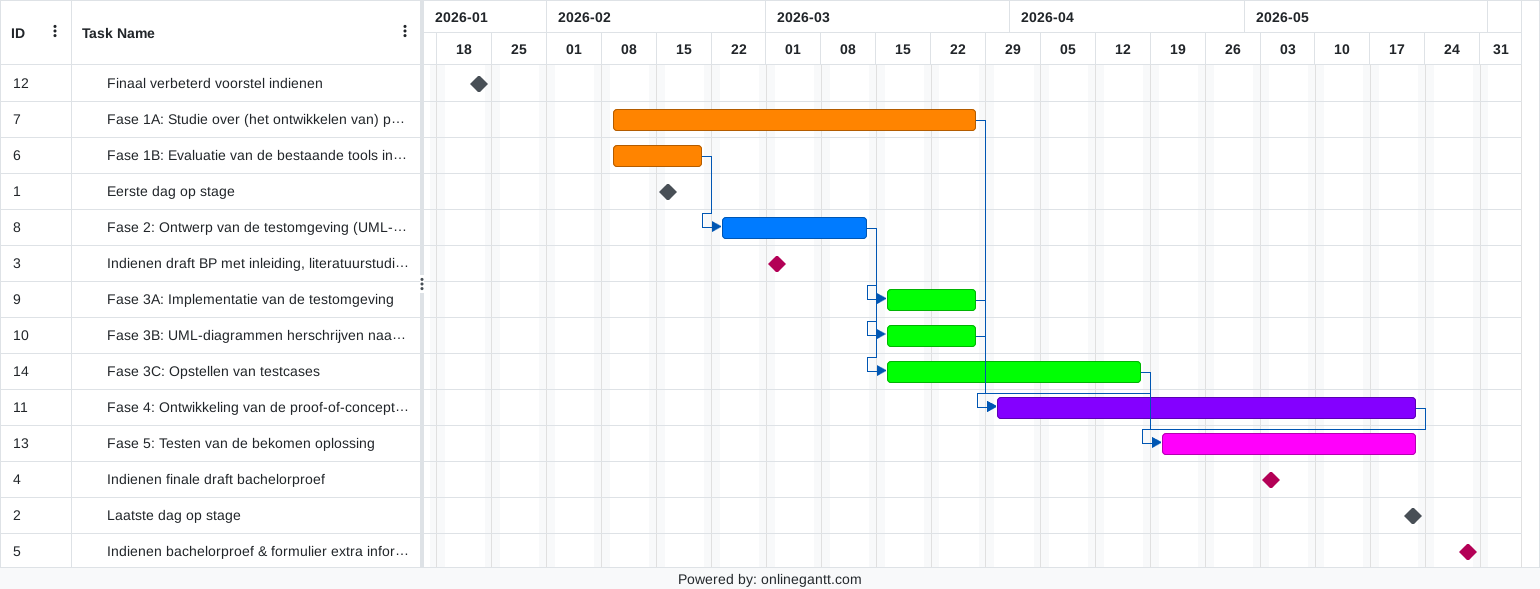
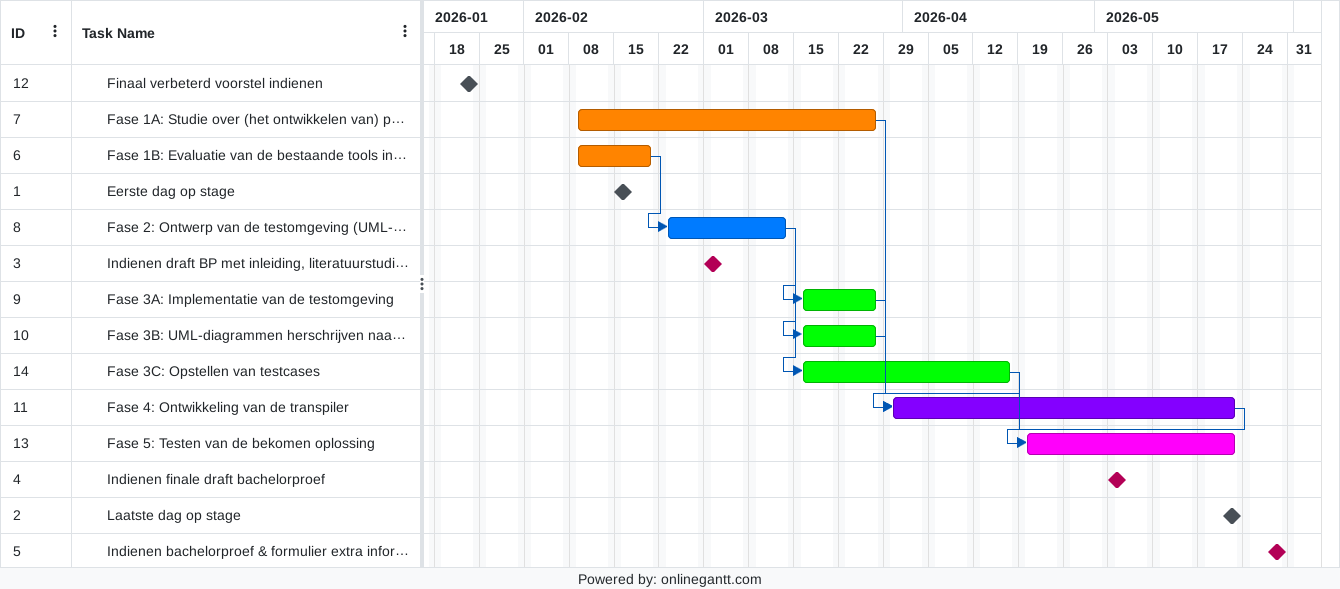
2026-01-22 - Finaal voorstel (eerste nalezing)

diff --git a/voorstel/voorstel-inhoud.tex b/voorstel/voorstel-inhoud.tex
@@ -53,9 +53,9 @@ Bij implementatiediagrammen kan er onder meer onduidelijkheid onstaan bij (de ve
 Voor netwerkdiagrammen kan dit bijvoorbeeld gaan over hardwarespecificaties van de servers, (de versies van) hun besturingssystemen en de declaratie van de DNS server(s).
 
 De \emph{hoofdonderzoeksvraag} voor deze bachelorproef:
-Hoe kan men een gegeven netwerk- en implementatiediagram (ontworpen met bv. PlantUML\footnote{\url{https://plantuml.com/}}) van een (virtuele) serveromgeving rechtstreeks omzetten (met minimale menselijke interventie) tot een overeenkomende, gebruiksklare ``configuration management''-ondersteunde (bv. met Ansible) serveromgeving?
+Hoe kan men een gegeven netwerk- en implementatiediagram (in tekstuele vorm via bv. PlantUML\footnote{\url{https://plantuml.com/}}) van een (virtuele) serveromgeving met minimale menselijke interventie omzetten tot een overeenkomende, gebruiksklare ``configuration management''-ondersteunde (bv. met Ansible) serveromgeving?
 
-Voor deze serveromgeving wordt ervan uit gegaan dat de eenheden (bare-metal servers, virtuele machines, containers, \ldots) alvorens uitgerold zijn via een ``Infrastructure-as-Code''-tool (zoals Terraform, OpenTofu, Vagrant, \ldots), en dat ze enkel nog achteraf geconfigureerd moeten worden via een ``configuration management''-tool.
+Voor deze serveromgeving wordt ervan uit gegaan dat de eenheden (bare-metal servers, virtuele machines, containers, \ldots) alvorens uitgerold zijn via een ``Infrastructure-as-Code''-tool en dat ze enkel nog achteraf geconfigureerd moeten worden via een ``configuration management''-tool.
 
 Enkele deelvragen met betrekking tot het \emph{probleemdomein}:
 
@@ -74,14 +74,13 @@ Verdere deelvragen met betrekking tot het \emph{oplossingsdomein}
   \item Is het mogelijk om deze oplossing te ontwikkelen aan de hand van ``reverse engineering'' van de bovenstaande tools?
 \end{itemize}
 
-De \emph{doelstelling} van deze bachelorproef is om een proof-of-concept te ontwikkelen voor een transpiler (of omzetter) van PlantUML-diagrammen naar Ansible-code. Dit zijn de twee tools die op dit moment voor ogen staan, maar er zullen alvorens of tijdens het onderzoek ook alternatieven gezocht en geëvalueerd worden. 
+De \emph{doelstelling} van deze bachelorproef is om een proof-of-concept te ontwikkelen voor een transpiler (of omzetter) van PlantUML-diagrammen naar Ansible-code. PlantUML en Ansible zijn de twee tools die op dit moment voor ogen staan, maar er zullen tijdens het onderzoek ook alternatieven gezocht en geëvalueerd worden. 
 
 De hoop voor deze oplossing is dat deze een meerwaarde kan bieden voor educatieve doeleinden. Neem als voorbeeld een OLOD zoals ``Cybersecurity Advanced'' binnen de opleiding Toegepaste Informatica. De tech-industrie evolueert snel en de labo's die voor dit OLOD ontworpen zijn, zullen daardoor ook snel verouderen.
 
-Aangezien met deze oplossing de drempel tussen de ontwerp- en de implementatiefase verkleint, zouden docenten sneller nieuwe (virtuele) labo-omgevingen kunnen ontwerpen, met (in theorie) kant-en-klare ``configuration management''-code om deze meteen te configureren. Voor studenten kan dit ook een kans bieden om potentiële experimenten tijdens hun studies sneller effectief vorm te geven.
+Aangezien met deze oplossing de drempel tussen de ontwerp- en implementatiefase verkleint, zouden docenten sneller nieuwe (virtuele) labo-omgevingen kunnen ontwerpen, met (in theorie) kant-en-klare ``configuration management''-code om deze meteen te configureren. Voor studenten kan dit ook een kans bieden om potentiële experimenten tijdens hun studies sneller effectief vorm te geven.
 
-
-%---------- Stand van zaken ---------------------------------------------------
+%---------- Literatuurstudie | Stand van zaken ---------------------------------------------------
 
 \section{Literatuurstudie}%
 \label{sec:literatuurstudie}
@@ -109,9 +108,9 @@ Aangezien met deze oplossing de drempel tussen de ontwerp- en de implementatiefa
 \subsection{Het belang van Unified Modeling Language (UML)}%
 \label{subsec:belang_uml}%
 
-``Unified Modeling Language'', of afgekort UML, is een taal die binnen de softwareontwikkeling-discipline geaccepteerd is als de standaard voor het weergeven van object-georiënteerde modellen. UML wordt hoofdzakelijk gebruikt in de industrie-, business- en IT-sector, met als doel om de ontwerp- en implementatiefase te ondersteunen met diagrammen die door zowel business als technische stakeholders kunnen geïnterpreteerd worden. \autocite{Koc2021}
+``Unified Modeling Language'', of afgekort UML, is een taal die binnen de softwareontwikkeling-discipline geaccepteerd is als de standaard voor het weergeven van object-georiënteerde modellen. UML wordt hoofdzakelijk gebruikt in de industrie-, business- en IT-sector, met als doel om de ontwerp- en implementatiefase te ondersteunen met diagrammen (zoals onder andere netwerk- en implementatiediagrammen) die door zowel business als technische stakeholders kunnen geïnterpreteerd worden. \autocite{Koc2021}
 
-Binnen de opleiding Toegepaste Informatica worden er twee UML-modeling programma's gebruikt; UML Visual Paradigm en draw.io gebruikt. Dit zijn twee tools die werden geëvalueerd tijdens een vergelijkende studie van \autocite{Lu2023}, waarin deze respectievelijk 122 en 114 scoorden op een maximum van 165 op basis van hun eigenschappen en functies.
+Binnen de opleiding Toegepaste Informatica worden er twee UML-modeling programma's gebruikt; UML Visual Paradigm en draw.io. Dit zijn twee tools die werden geëvalueerd tijdens een vergelijkende studie van \textcite{Lu2023}, waarin deze respectievelijk 122 en 114 scoorden op een maximum van 165 op basis van hun eigenschappen en functies.
 
 PlantUML en MermaidJS\footnote{\url{https://mermaid.js.org}} zijn tools waarmee men UML-diagrammen kan ontwerpen via menselijk leesbare en gemakkelijk onderhoudbare (door middel van versiebeheertools zoals Git\footnote{\url{https://git-scm.com/}}) tekstbestanden \autocite{Romeo2025}. Deze tools zijn ook open source, ergo de broncode van deze software is voor iedereen beschikbaar.
 
@@ -137,17 +136,17 @@ Er zijn drie noemenswaardige OLODs, binnen het keuzetraject ``System \& Network 
 
 Het OLOD ``Cybersecurity Advanced'' introduceert het concept van ``blue-teaming'' binnen het gebied van cybersecurity aan de hand van een reeks virtuele labo's die individueel worden uitgevoerd. Het gebruik van ``configuration management'' of UML-diagrammen is hierbij niet strikt noodzakelijk, maar het geeft de student wel een voordeel aangezien deze zo de labo-omgeving reproduceerbaar en visueel overzichtelijk kan maken. Bovendien wordt de (basis-)opstelling alvast voorgesteld met een netwerkdiagram, ontworpen met PlantUML.
 
-``DevOps Project: Operations'' is een OLOD voor studenten dat het tweede luik vormt van een tweeledig groepsproject, het eerste luik zijnde ``Real-life Integrated Software Engineering'' voor de studenten binnen ``Mobile \& enterprise developer''. Het doel van het ``operations-team'' in dit project, is om een de backend van een webapplicatie (ontwikkeld door het ``development-team'') te ondersteunen met een productie-waardige serverinfrastructuur. Deze omgeving moet volledig automatisch kunnen opgezet worden via zowel ``Infrastructure-as-Code''- als ``configuration management''-tools (met in het bijzonder Ansible).
+``DevOps Project: Operations'' is een OLOD voor studenten dat het tweede luik vormt van een tweeledig groepsproject, het eerste luik zijnde ``Real-life Integrated Software Engineering'' voor de studenten binnen ``Mobile \& enterprise developer''. Het doel van het ``operations-team'' in dit project, is om de backend van een webapplicatie (ontwikkeld door het ``development-team'') te ondersteunen met een productie-waardige serverinfrastructuur. Deze omgeving moet volledig automatisch kunnen opgezet worden via zowel ``Infrastructure-as-Code''- als ``configuration management''-tools (met in het bijzonder Ansible).
 Om de onderliggende werking van deze omgeving te visualiseren voor al dan niet technische stakeholders, moet er ook een netwerk- en implementatiediagram (of een combinatie ervan) ontworpen worden met UML-modeling software.
 
-Tenslotte biedt het OLOD ``Infrastructure Automation'' een reeks virtuele labo's die verschillende tools (Jenkins\footnote{\url{https://www.jenkins.io/}}, Ansible, Prometheus\footnote{\url{https://prometheus.io/}} en Kubernetes\footnote{\url{https://kubernetes.io/}}) introduceren voor het automatisch opzetten, configureren en monitoren van serveromgevingen. Nogmaals, hierbij is het gebruik van UML-diagrammen niet verplicht, maar aan te raden.
+Tenslotte biedt het OLOD ``Infrastructure Automation'' een reeks virtuele labo's die verschillende tools (Jenkins\footnote{\url{https://www.jenkins.io/}}, Ansible, Prometheus\footnote{\url{https://prometheus.io/}} en Kubernetes\footnote{\url{https://kubernetes.io/}}) introduceren voor het automatisch opzetten, configureren en monitoren van serveromgevingen. Nogmaals, hierbij is het gebruik van UML-diagrammen niet verplicht, maar aangeraden.
 
 \subsection{Compilers, transpilers en hun doel}%
 \label{subsec:overzicht_transpilers}
 
 Compilers vertalen de broncode van een high-level, menselijk leesbare taal (zoals Java\footnote{\url{https://www.java.com/}} of C\#\footnote{\url{https://dotnet.microsoft.com/en-us/languages/csharp}}) tot equivalente instructies in een andere, vaak low-level taal of machinecode \autocite{Seidl2012}.
 
-``Source-to-source compilers'', algemeen gekend als ``transpilers'', zijn compilers die code geschreven in één high-level (programmeer-)taal als invoer aannemen en deze als uitvoer omzetten naar code in een andere high-level taal. De use cases voor deze software kunnen zich ook uitbreiden tot het omzetten van code van naar een andere/nieuwere versie van eenzelfde taal of het optimaliseren van code. \autocite{Ilyushin2016}
+``Source-to-source compilers'', algemeen gekend als ``transpilers'', zijn compilers die code geschreven in één high-level (programmeer-)taal als invoer aannemen en deze als uitvoer omzetten naar code in een andere high-level taal. De use cases voor deze software kunnen zich ook uitbreiden tot het optimaliseren of omzetten van code naar een andere/nieuwere versie van eenzelfde taal. \autocite{Ilyushin2016}
 
 %---------- Methodologie ------------------------------------------------------
 
@@ -169,7 +168,7 @@ Compilers vertalen de broncode van een high-level, menselijk leesbare taal (zoal
 \subsection{Fasering van de bachelorproef}%
 \label{subsec:fasering_bap}
 
-Deze bachelorproef zal uitgevoerd worden in de volgende fases, van 9 februari t.e.m. 22 mei, 2026:
+Deze bachelorproef zal uitgevoerd worden in de volgende fases, van 9 februari (week 1) t.e.m. 22 mei (week 15), 2026:
 
 \begin{itemize}
   \item{Fase 1A (week 1-7): Studie over (het ontwikkelen van) transpilers}
@@ -178,59 +177,63 @@ Deze bachelorproef zal uitgevoerd worden in de volgende fases, van 9 februari t.
   \item{Fase 3A (week 6-7): Implementatie van de testomgeving}
   \item{Fase 3B (week 6-7): UML-diagrammen herschrijven naar PlantUML/MermaidJS}
   \item{Fase 3C (week 6-10): Opstellen van testcases}
-  \item{Fase 4 (week 8-15): Ontwikkeling van de proof-of-concept transpiler}
+  \item{Fase 4 (week 8-15): Ontwikkeling van de transpiler}
   \item{Fase 5 (week 11-15): Testen van de bekomen oplossing}
 \end{itemize}
 
-% \begin{figure}
-%   \centering
-%   \includegraphics[width=.8\textwidth]{images/voorstel-gantt.png}
-%   \caption{\label{fig:voorstel-gantt.png}GANTT-schema voor de opgelijste fases.}
-% \end{figure}
+Indien een fase begint met hetzelfde nummer maar eindigt met een andere letter, indiceert dit dat ze op hetzelfde moment (kunnen) beginnen, eindigen (met fases 1A, 3C en 5 als uitzondering) en parallel worden uitgevoerd.
 
-Indien een fase begint met hetzelfde nummer maar eindigt met een ander letter, indiceert dit dat ze op hetzelfde moment (kunnen) beginnen, eindigen (met fases 1A, 3C en 5 als uitzondering) en parallel worden uitgevoerd. Week 1 begint op maandag 9 februari, 2026.
+% \subsection{GANTT-schema}%
+% \label{subsec:gantt_schema}
+% 
+% \begin{center}
+  % \begin{figure}
+    % \includegraphics[width=.8\textwidth]{images/voorstel-gantt.png}
+    % \caption{\label{fig:voorstel-gantt.png}GANTT-schema voor de opgelijste fases.}
+  % \end{figure}
+% \end{center}
 
 \subsection{Fase 1A (week 1-7): Studie over (het ontwikkelen van) transpilers}%
 \label{subsec:studie_ontwikkelen_transpilers}
 
-Bij het begin van het onderzoek zal er parallel met de andere voorbereidende fases (1-3) een studie uitgevoerd worden over hoe deze werken en hoe deze ontwikkeld kunnen worden.
-De deliverable voor deze fase is een simpele, maar functionele transpiler die de basis zal vormen voor de proof-of-concept.
+Bij het begin van het onderzoek zal er parallel met de andere voorbereidende fases (1-3) een studie uitgevoerd worden over hoe transpilers werken en hoe deze ontwikkeld kunnen worden.
+De deliverable voor deze fase is een simpele, maar functionele transpiler (zonder UML-diagrammen en ``configuration management''-code) die de basis zal vormen voor de toekomstige, finale versie.
 
 \subsection{Fase 1B (week 1-2): Evaluatie van de bestaande tools in de betrokken vakgebieden}%
 \label{subsec:evaluatie_bestaande_tools_betrokken_vakgebieden}
 
-Hier zal er een afweging gemaakt worden (samen met de co-promotor) voor de verschillende tools binnen UML-modeling en ``configuration management'' die gebruikt zullen worden tijdens de ontwikkeling van de proof-of-concept transpiler.
-De te evalueren tools voor UML-modeling zijn onder andere PlantUML, MermaidJS. Voor het ``configuration management''-gedeelte zal er onder andere gekeken worden naar Ansible, Puppet en Chef. Deze opsomming van tools is echter niet-uitputtend, en andere tools kunnen nog in het vizier komen.
+Hier zal er een afweging gemaakt worden voor de verschillende tools binnen UML-modeling en ``configuration management'' die gebruikt zullen worden tijdens de ontwikkeling van de transpiler.
+De te evalueren tools voor UML-modeling zijn PlantUML en MermaidJS. Voor het ``configuration management''-gedeelte zal er gekeken worden naar Ansible, Puppet en Chef. Deze opsomming van tools is echter niet-uitputtend, en andere tools kunnen nog in het vizier komen.
 
 \subsection{Fase 2 (week 3-5): Ontwerp van de testomgeving (UML-diagrammen)}%
 \label{subsec:hardware_softwarespecs_testomgeving}
 
-In deze fase worden de infrastructuur van (virtuele) servers ontworpen voor de test-omgeving van de proof-of-concept transpiler aan de hand van netwerk- en implementatiediagrammen. In deze diagrammen zullen de hardware- (Opslag, RAM, CPU cores, \ldots) en softwarespecificaties (distributie, packages, \ldots) van elke server beschreven worden, alsook hoe deze met elkaar interageren (firewalls, \ldots). Het initiële ontwerp zal nog niet met PlantUML/MermaidJS verlopen maar eerder met GUI-ondersteunde tools zoals Visual Paradigm en draw.io.
+In deze fase wordt de (virtuele) testomgeving voor de transpiler ontworpen aan de hand van netwerk- en implementatiediagrammen. In deze diagrammen zullen de hardware- (Opslag, RAM, CPU cores, \ldots) en softwarespecificaties (distributie, packages, \ldots) van elke server beschreven worden, alsook hoe deze met elkaar interageren (firewalls, \ldots). Het initiële ontwerp zal nog niet met PlantUML/MermaidJS verlopen maar eerder met GUI-ondersteunde tools zoals Visual Paradigm en draw.io.
 
 \subsection{Fase 3A (week 6-7): Implementatie van de testomgeving}%
 \label{subsec:implementatie_testomgeving}
 
-Tijdens deze fase wordt de infrastructuur (ontworpen in fase 2) opgezet en geconfigureerd met zowel ``Infrastructure-as-Code''-tool(s) als ``configuration management''. Er wordt intussen ook gedocumenteerd hoe het ``configuration management''-gedeelte wordt opgezet, want dit vormt de target output voor de proof-of-concept transpiler. De uitvoer van de transpiler zal dan (uiteraard) worden toegepast op de omgeving minus het ``configuration management''-gedeelte.
+Tijdens deze fase wordt de infrastructuur (ontworpen in fase 2) opgezet met ``Infrastructure-as-Code''-tool(s) en geconfigureerd met een ``configuration management''-tool (Ansible/Puppet/Chef). Er wordt intussen ook gedocumenteerd hoe het ``configuration management''-gedeelte wordt opgezet, want dit vormt de target output voor de transpiler. De aanpassingen in verband met ``configuration management'' worden vervolgens ongedaan gemaakt alvorens de resulterende ``configuration management''-code van de transpiler wordt uitgevoerd op de testomgeving.
 
 \subsection{Fase 3B (week 6-7): UML-diagrammen herschrijven naar PlantUML/MermaidJS}%
 \label{subsec:uml_diagrammen_herscrijven}
 
-Nadat de netwerk- en implementatiediagrammen zijn ontworpen, zullen deze herschreven worden in PlantUML/MermaidJS. Deze diagrammen dienen een tweevoudig doel; ze kunnen binnen de originele context van hun taal als visuele UML-diagrammen worden gegenereerd, en ze vormen de bron-bestanden voor de proof-of-concept transpiler, die deze zal omzetten tot ``configuration management''-code (in Ansible/Puppet/Chef).
+Nadat de netwerk- en implementatiediagrammen zijn ontworpen, zullen deze herschreven worden in PlantUML/MermaidJS. Deze diagrammen dienen een tweevoudig doel; ze kunnen binnen de originele context van hun taal als visuele UML-diagrammen worden gegenereerd, en ze vormen de bron-bestanden voor de transpiler, die deze zal omzetten tot ``configuration management''-code.
 
 \subsection{Fase 3C (week 6-10): Opstellen van testcases}%
 \label{subsec:opstellen_testcases}
 
-Hier worden de testcases opgesteld waaraan de proof-of-concept transpiler aan moet voldoen. De testen zullen hoofdzakelijk buigen over de kwaliteit van de uitvoer (aantal playbooks, idempotentie, grootte van codebase, \ldots) en de werking van de finale infrastructuur. Deze fase zal in de praktijk waarschijnlijk gedeeltelijk parallel verlopen met fase 4, aangezien er tijdens het ontwikkelen van de oplossing mogelijk nieuwe testcases kunnen ontstaan.
+Hier worden de testcases opgesteld waaraan de transpiler aan moet voldoen. De testen zich zullen hoofdzakelijk buigen over de kwaliteit van de uitvoer (aantal playbooks, idempotentie, grootte van codebase, \ldots) en de werking van de finale infrastructuur. Deze fase zal in de praktijk waarschijnlijk gedeeltelijk parallel verlopen met fase 4, aangezien er tijdens het ontwikkelen van de oplossing mogelijk nieuwe testcases kunnen ontstaan.
 
-\subsection{Fase 4 (week 8-15): Ontwikkeling van de proof-of-concept transpiler}%
+\subsection{Fase 4 (week 8-15): Ontwikkeling van de transpiler}%
 \label{subsec:ontwikkeling_poc_transpiler}
 
-Tijdens deze fase wordt de proof-of-concept transpiler ontwikkeld. Deze zal als invoer de netwerk- en implementatiediagrammen (ontworpen met PlantUML/MermaidJS) aannemen en deze omzetten tot ``configuration management''-code (in Ansible/Puppet/Chef). Deze fase loopt tot 22 mei, 2026, aangezien dit ook de laatste dag van de stage voor de auteur is.
+Tijdens deze fase wordt de transpiler ontwikkeld. Deze zal als invoer de netwerk- en implementatiediagrammen (ontworpen met PlantUML/MermaidJS) aannemen en omzetten tot ``configuration management''-code (in Ansible/Puppet/Chef). Deze fase loopt tot 22 mei, 2026, aangezien dit voor de auteur de laatste dag van de stage is.
 
 \subsection{Fase 5 (week 11-15): Testen van de bekomen oplossing}%
 \label{subsec:evaluatie_bekomen_oplossing}
 
-Tenslotte worden de opgestelde testen uit fase 3C uitgevoerd op de (gedeeltelijk) uitgewerkte proof-of-concept transpiler. Op basis van de resultaten deze testen zal er een rapport opgesteld worden die aangeeft in welke mate deze oplossing een antwoord biedt op de hoofdonderzoeksvraag. Nogmaals, dit zal allicht parallel verlopen met fase 4.
+Tenslotte worden de opgestelde testen uit fase 3C uitgevoerd op de (gedeeltelijk) uitgewerkte transpiler. Op basis van de resultaten deze testen zal er een rapport worden opgesteld die aangeeft in welke mate deze oplossing een antwoord biedt op de hoofdonderzoeksvraag. Nogmaals, dit zal allicht parallel verlopen met fase 4.
 
 %---------- Verwachte resultaten ----------------------------------------------
 
@@ -246,17 +249,16 @@ Tenslotte worden de opgestelde testen uit fase 3C uitgevoerd op de (gedeeltelijk
 \subsection{Verwachte te gebruiken tools}%
 \label{subsec:verwachte_te_gebruiken_tools}
 
-De meest voor de hand liggende tools die voor deze oplossing geschikt lijken, zijn PlantUML voor UML-modeling en Ansible voor ``configuration management''. Dit heeft hoofdzakelijk te maken met de voorkennis van deze tools, met in het bijzonder Ansible aangezien deze binnen de opleiding Toegepaste Informatica en het vakgebied van de co-promotor de standaard vormt als toepassing voor ``configuration management''.
+De meest voor de hand liggende tools die voor deze oplossing geschikt lijken, zijn PlantUML voor UML-modeling en Ansible voor ``configuration management''. Dit heeft hoofdzakelijk te maken met de voorkennis van de auteur, met in het bijzonder Ansible aangezien deze binnen de opleiding Toegepaste Informatica (en de stageplaats van de auteur) de standaard vormt als toepassing voor ``configuration management''.
 
 \subsection{Verwachte eigenschappen van de testomgeving}
 \label{subsec:verwachte_eigenschappen_testomgeving}
 
 Deze infrastructuur zal allicht redelijk simpel gehouden worden met slechts 2 tot 3 (virtuele) servers, aangezien deze bachelorproef vooral over de ontwikkeling van een proof-of-concept gaat. Dat gezegd zijnde zal er gemikt worden op het implementeren van een web-, DNS- en monitoringserver. Mogelijke uitbreidingen kunnen een databank-, secundaire DNS- en DHCP-server zijn.
 
-\subsection{Verwachte functionaliteit voor de proof-of-concept transpiler}%
+\subsection{Verwachte functionaliteit voor de transpiler}%
 \label{subsec:verwachte_functionaliteit_poc}
 
-% Aangezien de auteur weinig ervaring heeft met het softwareontwikkeling en nog minder met het ontwikkelen van transpilers, is het mogelijk dat er tijdens fase 1A alternatieven gezocht zullen worden voor het ontwikkelen van een oplossing. Dit onderzoek situeert zich nu eenmaal hoofdzakelijk in de specialisatierichting ``System \& Network Administrator'' en niet in ``Mobile \& Enterprise development'', dus de focus zal sowieso eerder liggen bij de kwaliteit van de bekomen infrastructuur dan bij de cohesie van de geprogrammeerde transpiler.
-
-De verwachting van deze oplossing is om met de bekomende ``configuration management''-code een minimaal werkende infrastructuur te verkrijgen die de beschrijving van de gegeven netwerk- en implementatiediagrammen zo nauw mogelijk benadert.
-Aangezien de syntax van zowel PlantUML als Ansible heel uitgebreid is, zal de transpiler zich slechts over een (relevant) deel hiervan buigen. Er zullen enkel netwerk- en implementatiediagrammen als invoer kunnen gebruikt worden, en voor de Ansible playbooks als uitvoer zal er een deelverzameling van ondersteunde ``collections'' en ``roles'' worden gespecifiëerd. Nogmaals, dit wordt een proof-of-concept, dus het onderzoek zal ook aantonen waar het potentiëel tot uitbreidingen ligt, alsook de limitaties van welke informatie uit een UML-diagram rechtstreeks kan omgezet worden naar ``configuration management'' en vice versa.
+De verwachting van deze oplossing is om met de resulterende ``configuration management''-code een minimaal werkende infrastructuur te configureren die de beschrijving van de gegeven netwerk- en implementatiediagrammen zo nauw mogelijk benadert.
+De transpiler zal slechts voor een (relevant) deel van de syntax tussen PlantUML en Ansible een vertaallaag kunnen vormen, aangezien de omvang voor beide tools veel groter is dan die voor dit onderzoek.  
+Als invoer zullen er enkel netwerk- en implementatiediagrammen gebruikt kunnen worden en als uitvoer zal er een deelverzameling van ondersteunde ``collections'' en ``roles'' voor de Ansible playbooks gespecifiëerd worden. Nogmaals, dit wordt een proof-of-concept, dus het onderzoek moet ook aantonen waar het potentiëel tot uitbreidingen ligt, alsook wat de limitaties zijn qua informatie uit een UML-diagram omzetten naar ``configuration management''-code en vice versa.

diff --git a/voorstel/LuduenaSegreLucas-BPvoorstel.tex b/voorstel/LuduenaSegreLucas-BPvoorstel.tex
@@ -65,8 +65,8 @@
 \begin{abstract}
   % Hier schrijf je de samenvatting van je voorstel, als een doorlopende tekst van één paragraaf. Let op: dit is geen inleiding, maar een samenvattende tekst van heel je voorstel met inleiding (voorstelling, kaderen thema), probleemstelling en centrale onderzoeksvraag, onderzoeksdoelstelling (wat zie je als het concrete resultaat van je bachelorproef?), voorgestelde methodologie, verwachte resultaten en meerwaarde van dit onderzoek (wat heeft de doelgroep aan het resultaat?).
   Op HOGENT, binnen de opleiding Toegepaste Informatica en meerbepaald het keuzetraject ``System \& Network Administrator'', worden er OLODS (opleidingsonderdelen) gegeven die aan de hand van labo's bijdragen aan het leren van serverinfrastructuren creeëren en configureren. Deze infrastructuren worden geïmplementeerd aan de hand van netwerk- en implementatiediagrammen, ontworpen met UML-modeling software.
-  De probleemstelling vertrekt vanuit het foutgevoelige en tijdrovende proces waarbij (complexe) UML-diagrammen eerst geïnterpreteerd en daarna manueel vertaald worden naar een configureerbare infrastructuur.
-  Deze bachelorproef zal onderzoeken hoe men, voor een potentiële serverinfrastructuur, netwerk- en implementatiediagrammen (meerbepaald in tekstuele vorm via PlantUML/MermaidJS) met zo weinig mogelijk manuele interventie kan omzetten naar een overeenkomende, gebruiksklare omgeving ondersteund door ``configuration management'' (zoals Ansible, Puppet of Chef).
+  De probleemstelling voor deze bachelorproef vertrekt vanuit het foutgevoelige en tijdrovende proces waarbij (complexe) UML-diagrammen eerst geïnterpreteerd en daarna manueel vertaald worden naar een configureerbare infrastructuur.
+  De hoofdonderzoeksvraag is hoe men, voor een potentiële serverinfrastructuur, netwerk- en implementatiediagrammen (meerbepaald in tekstuele vorm via PlantUML/MermaidJS) met zo weinig mogelijk manuele interventie kan omzetten naar een overeenkomende, gebruiksklare omgeving ondersteund door ``configuration management'' (zoals Ansible, Puppet of Chef).
   De doelstelling van dit onderzoek is om een proof-of-concept transpiler te ontwikkelen die gegeven netwerk- en implementatiediagrammen als invoer rechtstreeks kan vertalen naar ``configuration management''-code als uitvoer. 
   De geplande testomgeving zal bestaan uit 2 tot 3 reeds uitgerolde (virtuele) servers (al dan niet via Infrastructure-as-Code tools), en zullen bestaan uit een web-, DNS- en monitoringserver (zonder nog eventuele uitbreidingen).
   Qua methodologie wordt er eerst een studie gedaan naar transpilers, parallel met een evaluatie van te gebruiken tools (PlantUML, MermaidJS, Ansible, Puppet en Chef). Vervolgens wordt de testomgeving ontworpen (via UML-diagrammen), opgezet en gedocumenteert. Dan wordt de transpiler ontwikkeld en tenslotte systematisch getest tegen (onder andere) de kwaliteit en idempotentie van de uitvoer.
